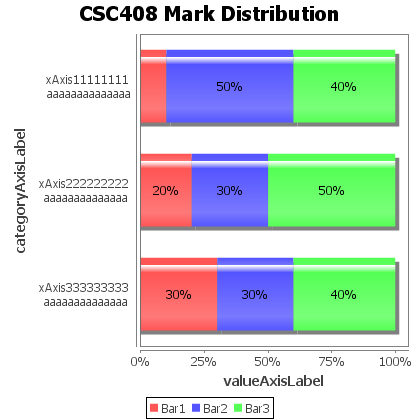
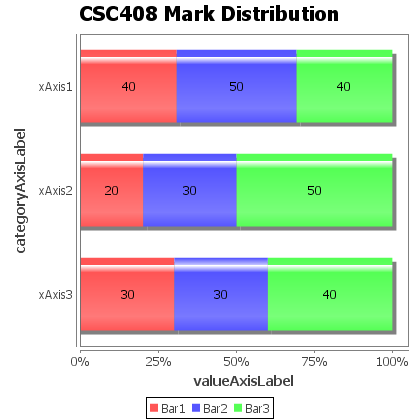
draw StackedPercentBar

diff --git a/jasper-report/src/main/java/jfree/StackedPercentBar.java b/jasper-report/src/main/java/jfree/StackedPercentBar.java
@@ -12,6 +12,7 @@ import org.jfree.chart.plot.CategoryPlot;
 import org.jfree.chart.plot.Plot;
 import org.jfree.chart.plot.PlotOrientation;
 import org.jfree.chart.renderer.category.CategoryItemRenderer;
+import org.jfree.chart.renderer.category.StackedBarRenderer;
 import org.jfree.data.category.DefaultCategoryDataset;
 import org.jfree.data.general.DefaultPieDataset;
 
@@ -26,17 +27,17 @@ public class StackedPercentBar {
 	public static void main(String[] args) {
 		// Create a simple pie chart
 		DefaultCategoryDataset categoryDataset = new DefaultCategoryDataset();
-		categoryDataset.setValue(0.10,"Bar1","xAxis11111111 aaaaaaaaaaaaaa");
-		categoryDataset.setValue(0.50,"Bar2","xAxis11111111 aaaaaaaaaaaaaa");
-		categoryDataset.setValue(0.40,"Bar3","xAxis11111111 aaaaaaaaaaaaaa");
+		categoryDataset.setValue(40,"Bar1","xAxis1");
+		categoryDataset.setValue(50,"Bar2","xAxis1");
+		categoryDataset.setValue(40,"Bar3","xAxis1");
 		
-		categoryDataset.setValue(0.20,"Bar1","xAxis222222222 aaaaaaaaaaaaaa");
-		categoryDataset.setValue(0.30,"Bar2","xAxis222222222 aaaaaaaaaaaaaa");
-		categoryDataset.setValue(0.50,"Bar3","xAxis222222222 aaaaaaaaaaaaaa");
+		categoryDataset.setValue(20,"Bar1","xAxis2");
+		categoryDataset.setValue(30,"Bar2","xAxis2");
+		categoryDataset.setValue(50,"Bar3","xAxis2");
 		
-		categoryDataset.setValue(0.30,"Bar1","xAxis333333333 aaaaaaaaaaaaaa");
-		categoryDataset.setValue(0.30,"Bar2","xAxis333333333 aaaaaaaaaaaaaa");
-		categoryDataset.setValue(0.40,"Bar3","xAxis333333333 aaaaaaaaaaaaaa");
+		categoryDataset.setValue(30,"Bar1","xAxis3");
+		categoryDataset.setValue(30,"Bar2","xAxis3");
+		categoryDataset.setValue(40,"Bar3","xAxis3");
 		
 		JFreeChart chart = ChartFactory.createStackedBarChart(
 				"CSC408 Mark Distribution", // Title
@@ -57,11 +58,12 @@ public class StackedPercentBar {
 		plot.getRangeAxis().setAutoRangeMinimumSize(1);
 		NumberAxis ca= (NumberAxis)plot.getRangeAxis();
 		ca.setNumberFormatOverride(NumberFormat.getPercentInstance());
-		CategoryItemRenderer renderer = plot.getRenderer();
+		StackedBarRenderer renderer = (StackedBarRenderer)plot.getRenderer();
 		renderer.setBaseItemLabelGenerator(
 			    new StandardCategoryItemLabelGenerator(
-			        "{3}", NumberFormat.getInstance()));
-			renderer.setBaseItemLabelsVisible(true);
+			        "{2}", NumberFormat.getInstance()));
+		renderer.setBaseItemLabelsVisible(true);
+		renderer.setRenderAsPercentages(true);
 		BufferedImage bf= chart.createBufferedImage(420, 420);
 		
 		try {
